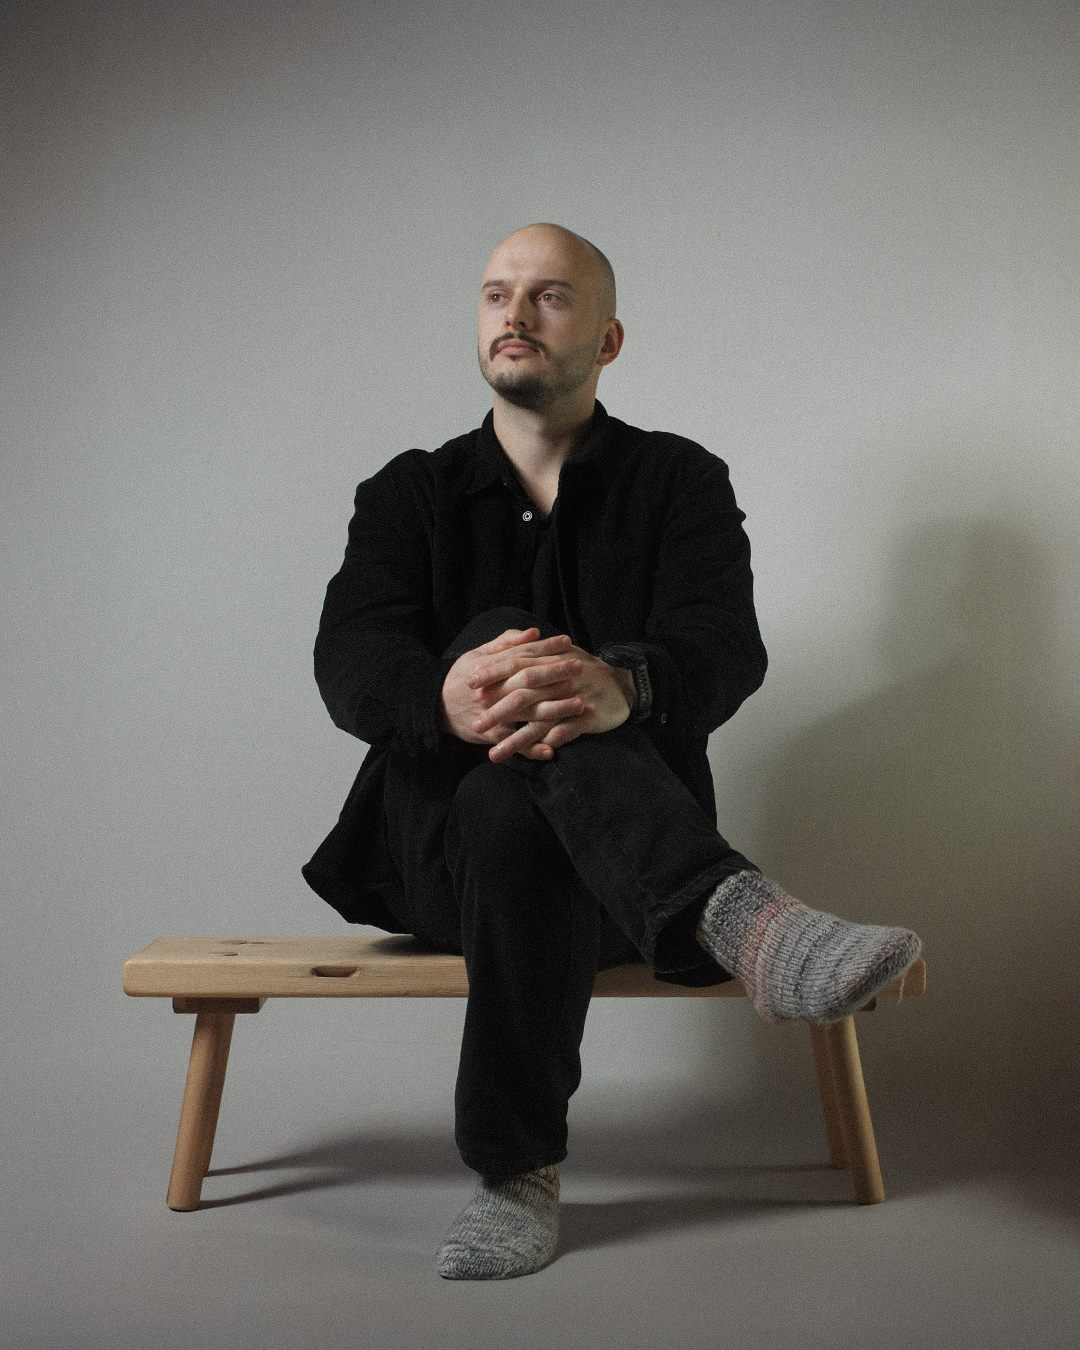
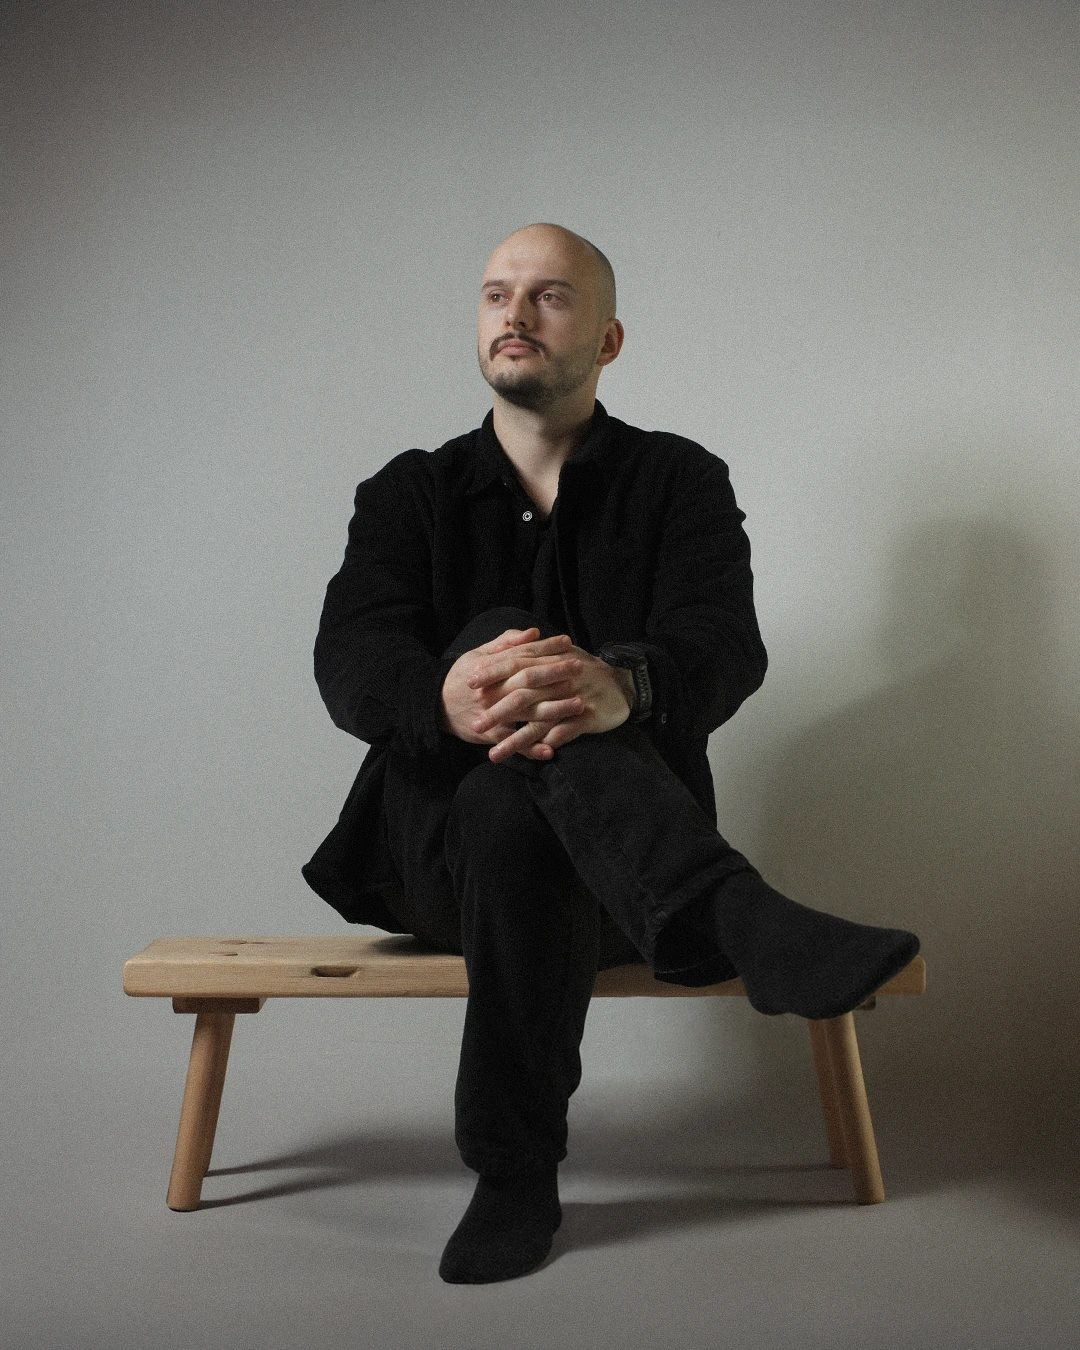
Оновлення фото: якісніші сертифікати (1-8), два нові дипломи літніх інтенсивів (2024/2026), свіжі фото для «Про мене», «Підхід» і «Контакти»

Changed region(s): [[0.6417, 0.6222, 0.8556, 0.7778], [0.3972, 0.84, 0.5194, 0.9644]]

diff --git a/index.html b/index.html
@@ -302,12 +302,12 @@
         <span class="dip__meta">Науково-практична конференція з міжнародною участю, КНУ, 15 годин · 2023</span>
       </article>
       <article class="dip">
-        <span class="dip__img is-empty" data-slot="КГУ"></span>
+        <span class="dip__img"><img onload="this.classList.add('is-loaded')" src="assets/certs/diploma-10.jpg" alt="Літній освітній гештальт-інтенсив 2024" loading="lazy" decoding="async"></span>
         <b>Літній освітній гештальт-інтенсив</b>
         <span class="dip__meta">КГУ, 72 години терапії та майстер-класів · 2024</span>
       </article>
       <article class="dip">
-        <span class="dip__img is-empty" data-slot="КГУ"></span>
+        <span class="dip__img"><img onload="this.classList.add('is-loaded')" src="assets/certs/diploma-11.jpg" alt="Літній освітній гештальт-інтенсив 2026" loading="lazy" decoding="async"></span>
         <b>Літній освітній гештальт-інтенсив</b>
         <span class="dip__meta">КГУ, 72 години терапії та майстер-класів · 2026</span>
       </article>
